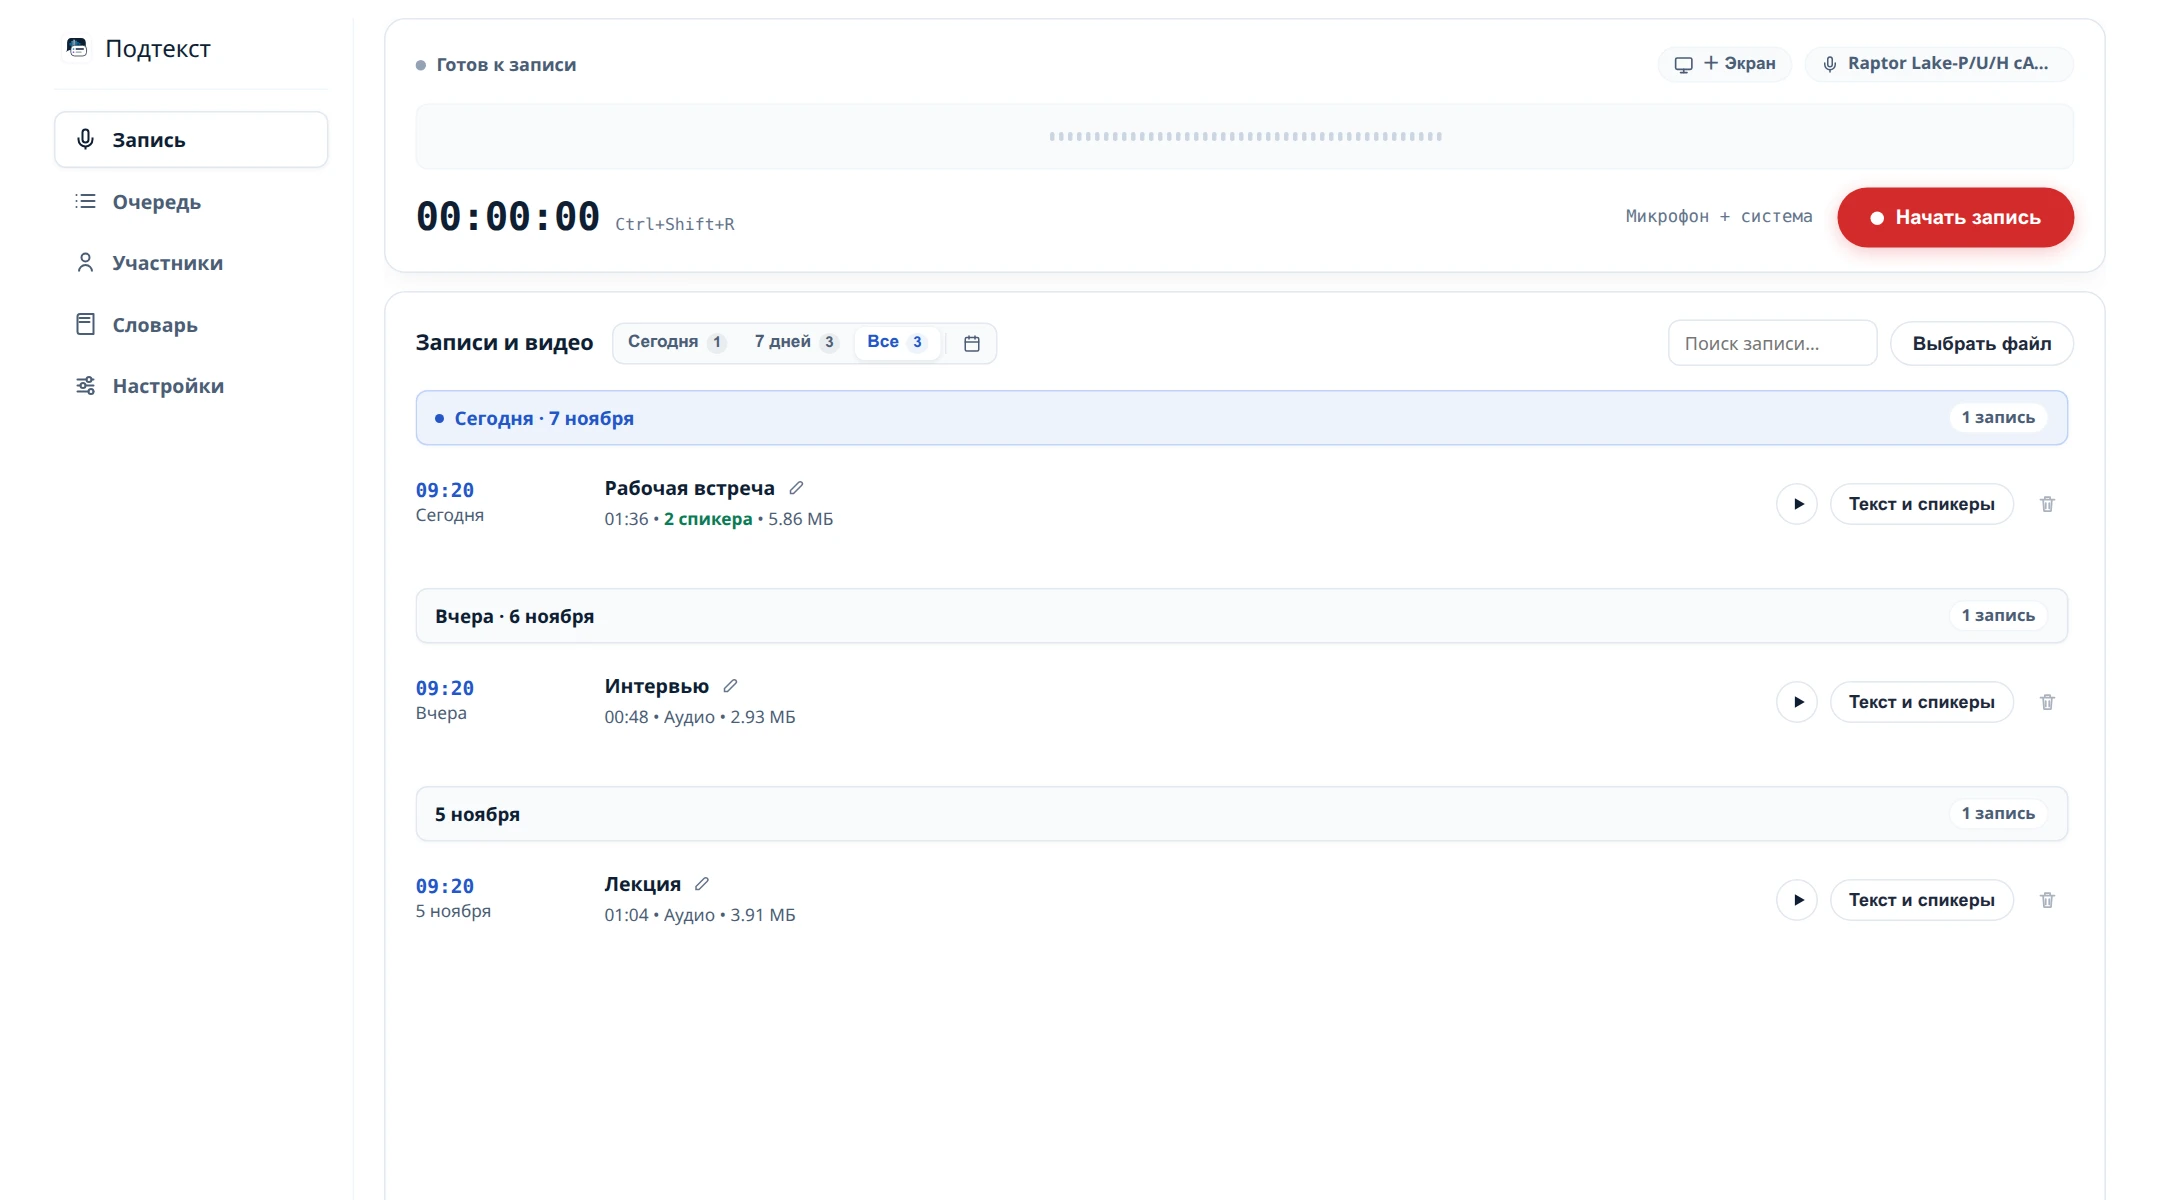
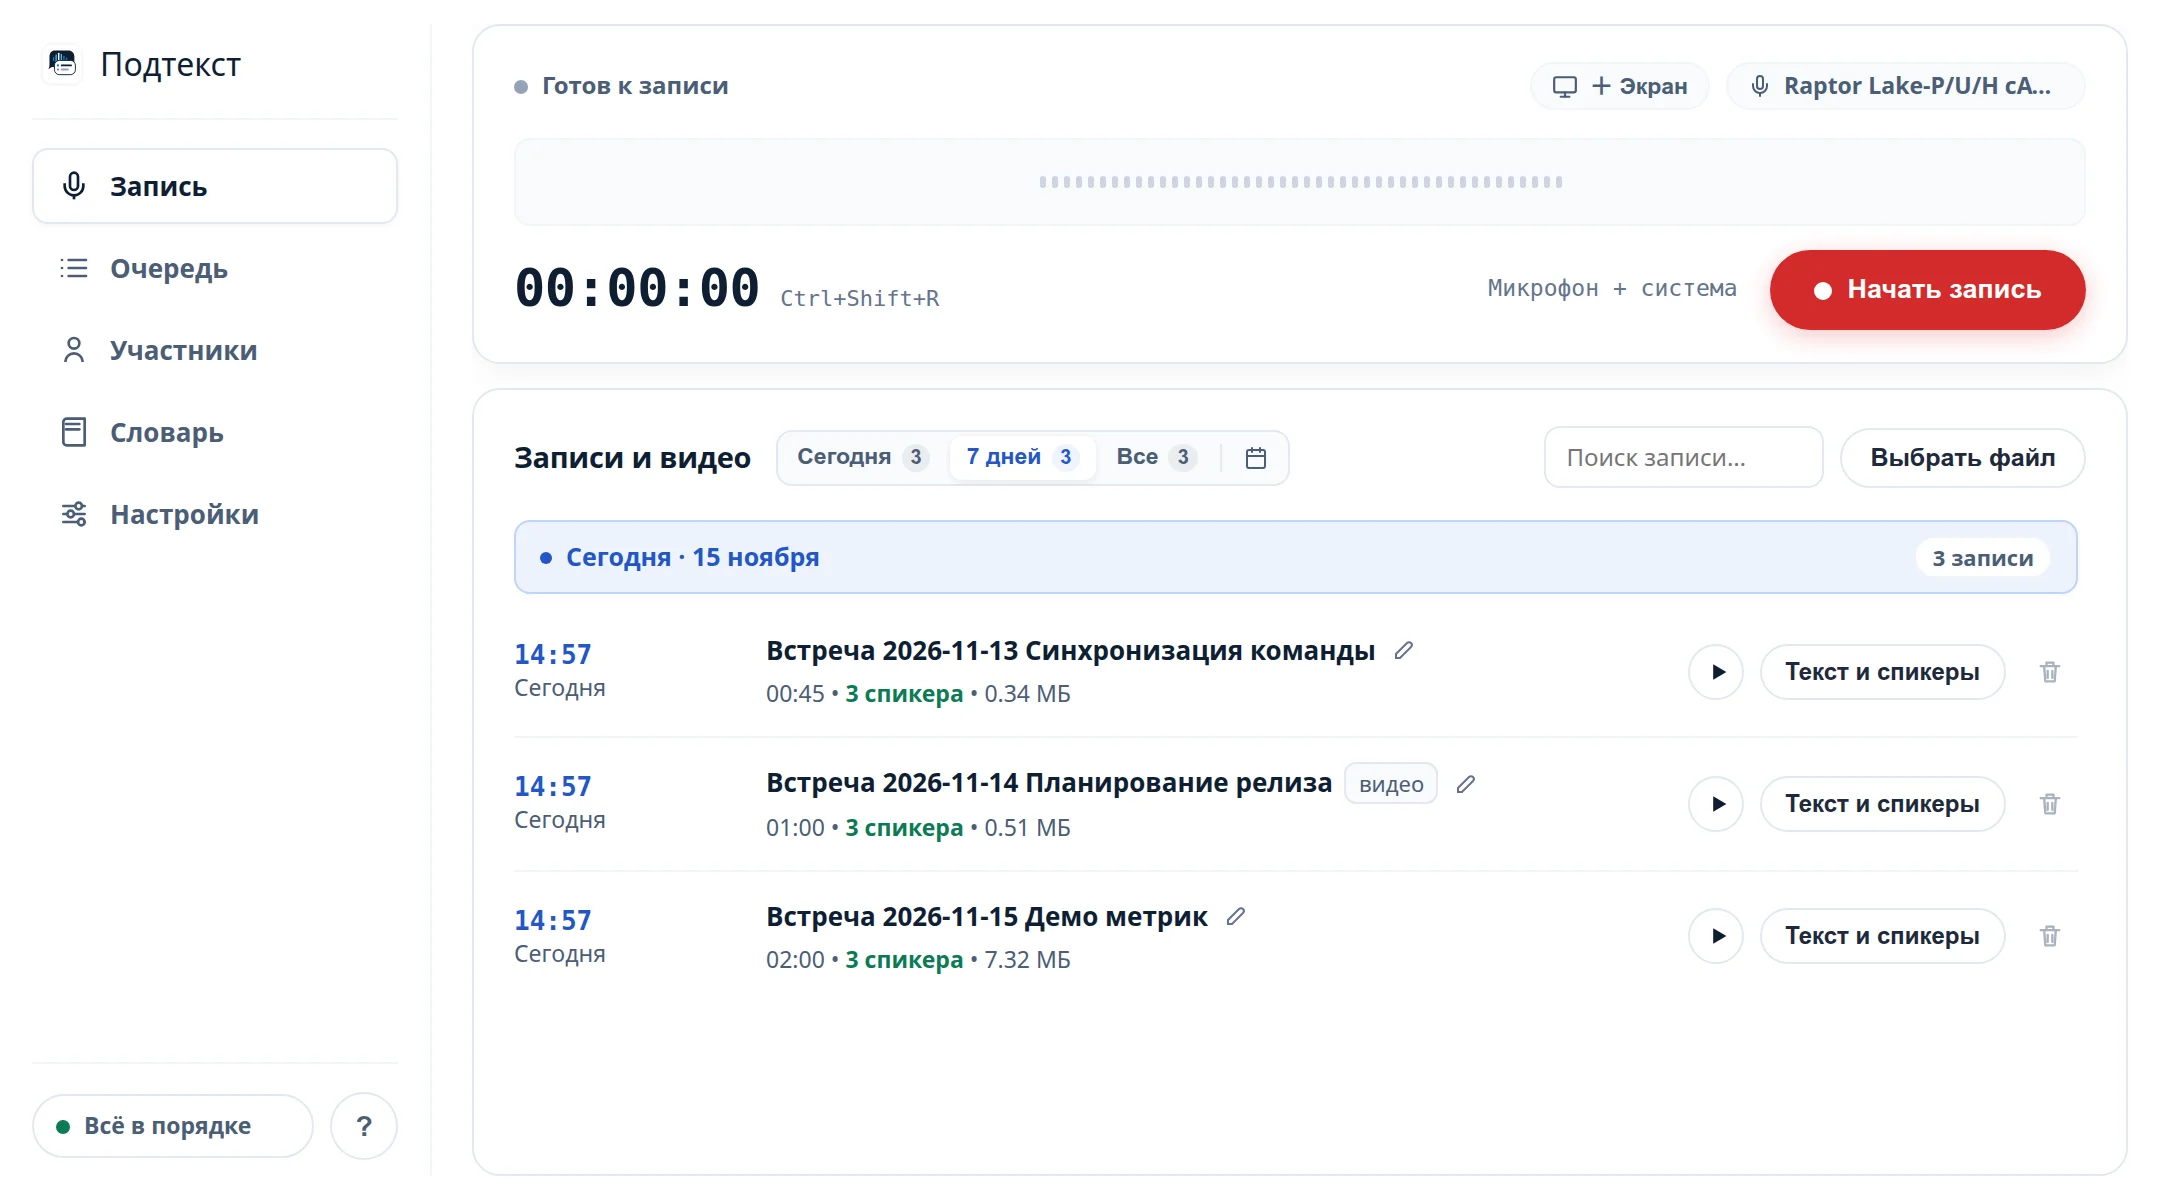
docs(site): переснять скриншоты в UI 0.8.0 и добавить ссылку на APK
- recording.webp и transcript.webp сняты в реальном Svelte UI 0.8.0
  с синтетическими демо-записями и обезличенными репликами [P12];
  на transcript видна панель метрик речи 0.8.0, включая базовую линию
- размеры совпадают с прежними (2160x1200 и 2160x1428), og-image
  перегенерирован из og-template с новым transcript
- alt/figcaption приведены к фактическому содержимому (метрики вместо итогов)
- hero: ссылка на APK для Android (пермалинк releases/latest/download)
  и Android в hero-note; FAQ и JSON-LD дополнены строкой про APK

diff --git a/site/index.html b/site/index.html
@@ -97,7 +97,7 @@
             "name": "Какие операционные системы поддерживаются?",
             "acceptedAnswer": {
               "@type": "Answer",
-              "text": "Windows 10 и 11, Linux и macOS 13.4+ на Apple Silicon. Android-версия экспериментальная: запись только с микрофона, без системного звука и видео."
+              "text": "Windows 10 и 11, Linux и macOS 13.4+ на Apple Silicon. Android-версия экспериментальная: запись только с микрофона, без системного звука и видео; APK для Android — в релизах на GitHub."
             }
           },
           {
@@ -156,6 +156,7 @@
           <p class="lead">Записывайте встречи или загружайте готовые файлы. Подтекст распознаёт речь на вашем компьютере, разделяет спикеров, считает метрики речи и сохраняет протокол с таймкодами.</p>
           <div class="actions">
             <a class="button button-primary" href="https://github.com/guest363/Podtekst/releases/latest" rel="noopener" data-download>Скачать бесплатно</a>
+            <a class="text-link" href="https://github.com/guest363/Podtekst/releases/latest/download/Podtekst-android-arm64.apk" rel="noopener">APK для Android (экспериментально) <span aria-hidden="true">↗</span></a>
             <a class="text-link" href="https://github.com/guest363/Podtekst" rel="noopener">Исходный код на GitHub <span aria-hidden="true">↗</span></a>
           </div>
           <ul class="trust-list" aria-label="Условия использования">
@@ -163,7 +164,7 @@
             <li>Без телеметрии</li>
             <li>Открытый код MIT</li>
           </ul>
-          <p class="hero-note">Windows 10/11 · macOS 13.4+ · Linux</p>
+          <p class="hero-note">Windows 10/11 · macOS 13.4+ · Linux · Android</p>
         </div>
         <figure class="product-shot hero-shot">
           <img src="assets/screenshots/recording.webp" alt="Настоящий экран Подтекст: запись микрофона и системного звука, список аудиозаписей" width="2160" height="1200" fetchpriority="high">
@@ -223,8 +224,8 @@
           <li><span>03</span><h3>Проверьте, соберите итоги и метрики</h3><p>Найдите фразу по таймкоду, исправьте текст и уточните спикеров. Встроенная модель Qwen составит краткий итог с решениями и задачами, а панель метрик покажет долю речи, монологи и паузы. Для экспорта доступны Markdown, TXT, DOCX, PDF и JSON.</p></li>
         </ol>
         <figure class="product-shot transcript-shot">
-          <img src="assets/screenshots/transcript.webp" alt="Настоящий экран расшифровки Подтекст: таймкоды, спикеры, панель локальных итогов встречи и экспорт" width="2160" height="1428" loading="lazy">
-          <figcaption>Реплики, спикеры, таймкоды и локальные итоги встречи в настоящем интерфейсе · демонстрационные данные</figcaption>
+          <img src="assets/screenshots/transcript.webp" alt="Настоящий экран расшифровки Подтекст: таймкоды, спикеры, панель метрик речи и экспорт" width="2160" height="1428" loading="lazy">
+          <figcaption>Реплики, спикеры, таймкоды и панель метрик речи в настоящем интерфейсе · демонстрационные данные</figcaption>
         </figure>
       </div>
     </section>
@@ -295,7 +296,7 @@
           </details>
           <details>
             <summary>Какие операционные системы поддерживаются?</summary>
-            <p>Windows 10 и 11, Linux и macOS 13.4+ на Apple Silicon. Android-версия экспериментальная: запись только с микрофона, без системного звука и видео.</p>
+            <p>Windows 10 и 11, Linux и macOS 13.4+ на Apple Silicon. Android-версия экспериментальная: запись только с микрофона, без системного звука и видео; APK для Android — в релизах на GitHub.</p>
           </details>
           <details>
             <summary>Можно использовать программу для конфиденциальных разговоров?</summary>

diff --git a/docs/og-template.html b/docs/og-template.html
@@ -55,7 +55,7 @@
       <p class="eyebrow">Локально на вашем компьютере</p>
       <h1>Расшифровка аудио в текст <span>без облака</span></h1>
       <p class="description">Запись встреч, разделение спикеров и готовый протокол. Бесплатно, без подписки и телеметрии.</p>
-      <p class="facts">Windows · macOS · Linux<br>GigaAM-v3 + Whisper · открытый код MIT</p>
+      <p class="facts">Windows · macOS · Linux · Android<br>GigaAM-v3 + Whisper · открытый код MIT</p>
     </section>
     <figure class="visual">
       <img src="../site/assets/screenshots/transcript.webp" alt="">
